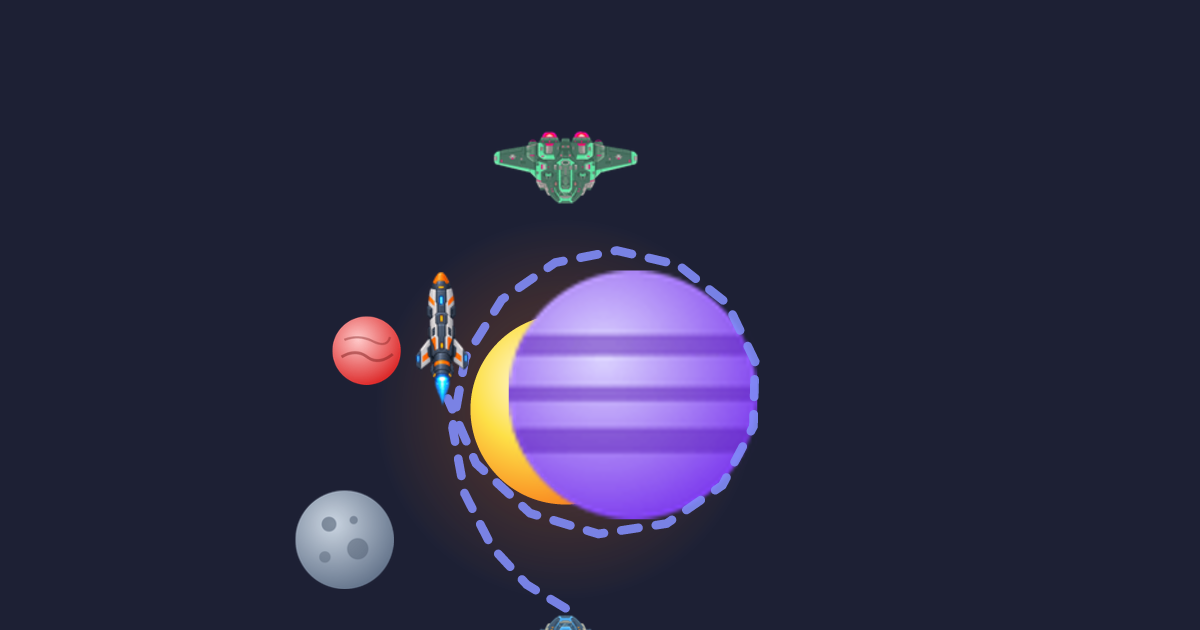
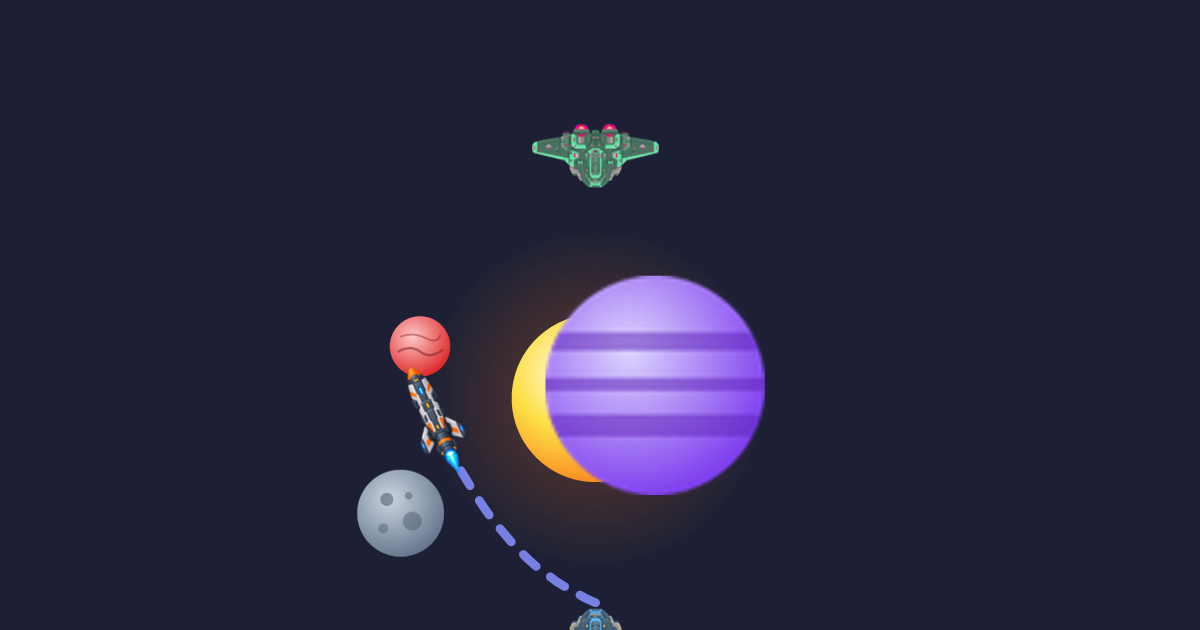
fix: gravity shooter ships sit 20px closer to their edge
Issue #16 had asked for a further 20px of margin past the original
0.08 brief; a later report asked for it back. GRAVITY_SHIP_MARGIN is
the ship's real world position, not a rendering offset layered on top
of it, so moving the one shared constant is what keeps the sprite, the
hitbox, the aim origin, launchPosition and the referee's own fairness
check all agreeing on where the ship actually is — nothing to wire up
separately, and nothing left to drift out of sync with a hitbox that
never moved.

The board is taller now (less margin taken off each end), which raises
both ends of the launch-speed range along with it — game.test.ts's
frame-count and outer-wall checks are updated to the new numbers.

Card art and OG preview regenerated: gravity-shooter's card manifest
hashes shared/protocol.ts whole, so this constant's move invalidated
it mechanically.

Changed region(s): [[0.2467, 0.3921, 0.6475, 1.0], [0.4008, 0.181, 0.555, 0.3317]]

diff --git a/www/src/games/gravity-shooter/game.test.ts b/www/src/games/gravity-shooter/game.test.ts
@@ -13,6 +13,7 @@ import {
   GRAVITY_SHIP_HEIGHT,
   GRAVITY_SHOT_BLINK_MAX_HZ,
   GRAVITY_SHOT_BLINK_START_MS,
+  GRAVITY_SIM_BOUNDS_MAX,
   GRAVITY_STEP_MS,
   GRAVITY_PLAYBACK_RATE,
   GRAVITY_MAX_STEPS,
@@ -267,9 +268,14 @@ function lifetime(): void {
   check('and still ends as a miss', grazing.hit === false);
   check('one offscreen budget after leaving, not a moment more',
     Math.abs(timeOffscreen - GRAVITY_OFFSCREEN_LIFETIME_MS) < GRAVITY_STEP_MS, timeOffscreen);
+  // `timeOffscreen` above already pins the budget as the actual cause; this
+  // only needs to rule out the OTHER possible ending, the outer wall itself
+  // (`GRAVITY_SIM_BOUNDS_MAX`) — which a smaller `GRAVITY_SHIP_MARGIN` brings
+  // this grazing shot noticeably closer to than it used to be, since the
+  // floor speed it launches at rises with the board's own (now taller) height.
   const last = grazing.path.at(-1);
-  check('and well inside the outer wall, so the budget ended it — not the wall',
-    !!last && last.x < 1.5 - 0.05, last);
+  check('and inside the outer wall, so the budget ended it — not the wall',
+    !!last && last.x < GRAVITY_SIM_BOUNDS_MAX, last);
 
   // A shot aimed just past the opponent, missing by more than the hit
   // radius: once it flies beyond that row, "past" always wins over
@@ -294,10 +300,14 @@ function lifetime(): void {
  * the hitbox to the ship's full width shortened both (the missile counts as
  * arrived further out), and launching from the tip rather than the hull's
  * middle (issue #37) took a hull height off the front of every flight — a
- * shorter one since that height was corrected to a world-y distance.
+ * shorter one since that height was corrected to a world-y distance. Bringing
+ * the ships 20px back in from the edge lengthened both again: the board
+ * itself (`GRAVITY_BOARD_HEIGHT`) is now taller, which raises both ends of the
+ * speed range along with it (`GRAVITY_MIN/MAX_LAUNCH_SPEED`), but a taller
+ * board to cross wins out over a faster launch.
  */
-const GRAVITY_FREE_MIN_IMPULSE_FRAMES = 549;
-const GRAVITY_FREE_MAX_IMPULSE_FRAMES = 138;
+const GRAVITY_FREE_MIN_IMPULSE_FRAMES = 570;
+const GRAVITY_FREE_MAX_IMPULSE_FRAMES = 143;
 
 function impulseRange(): void {
   console.log('\nlaunch speed is capped, floored, and shaped by launch intensity (follow-up after #16)');
@@ -321,10 +331,10 @@ function impulseRange(): void {
   const weakest = simulateShot(noPlanets, 0, 0, 0);
   const strongest = simulateShot(noPlanets, 0, 0, 1);
   check('the weakest pull still reaches the opponent', weakest.hit === true);
-  check('taking about 9.2s — the slow end of the display range',
+  check('taking about 9.5s — the slow end of the display range',
     weakest.path.length - 1 === GRAVITY_FREE_MIN_IMPULSE_FRAMES, weakest.path.length - 1);
   check('a full-strength pull also reaches the opponent', strongest.hit === true);
-  check('taking about 2.3s — the fast end of the display range',
+  check('taking about 2.4s — the fast end of the display range',
     strongest.path.length - 1 === GRAVITY_FREE_MAX_IMPULSE_FRAMES, strongest.path.length - 1);
   check('and the weakest is four times the slowest — the impulse range itself',
     Math.abs(GRAVITY_MAX_LAUNCH_SPEED / GRAVITY_MIN_LAUNCH_SPEED - 4) < 1e-9,

diff --git a/shared/protocol.ts b/shared/protocol.ts
@@ -2827,10 +2827,17 @@ export const GRAVITY_PLANET_INFLUENCE_RADIUS_FACTOR = 2;
  * ship, aiming from it, simulating a shot's start/target point) and the
  * referee (issue #16's own map-fairness pre-check, `worker/gravityShooter.ts`)
  * need to agree on, so it lives here rather than with the client-only tuning
- * below. 0.08 was the original brief; issue #16 asked for the ships to sit a
- * further 20px from the edge.
+ * below.
+ *
+ * 0.08 was the original brief; issue #16 asked for a further 20px, and a
+ * later report asked to bring the ships back in by that same 20px — this IS
+ * the ship's real world position, not a cosmetic nudge layered on top of it,
+ * so moving it here is what keeps the sprite, the hitbox, the aim origin and
+ * `launchPosition` (and the referee's own fairness check) all agreeing on
+ * where the ship actually is, rather than a rendering offset drifting away
+ * from a hitbox that never moved.
  */
-export const GRAVITY_SHIP_MARGIN = 0.08 + 20 / GRAVITY_REFERENCE_BOARD_PX;
+export const GRAVITY_SHIP_MARGIN = 0.08;
 
 /**
  * A pull's own strength is normalized 0..1 client-side; the referee clamps

diff --git a/docs/specs/games/gravity-shooter.md b/docs/specs/games/gravity-shooter.md
@@ -30,9 +30,10 @@ viewer, never two different boards.
 
 1. Host starts the round. Three planets are placed once, at random positions
    and sizes, identical on both screens (§2.1) — and never a board without a
-   shot that lands on it. Ships are fixed near their
-   own edge and never move — a 20px further margin than the original brief
-   (issue #16), so neither ship reads as sitting right on the border.
+   shot that lands on it. Ships are fixed near their own edge and never move —
+   at the original brief's own 0.08 margin (`GRAVITY_SHIP_MARGIN`); issue #16
+   had asked for a further 20px, and a later report asked for it back, so the
+   ships now sit that 20px closer to their edge again.
 2. Turns strictly alternate, host first. On your turn, touch above your own
    ship — the finger's own position relative to the ship sets your shot's
    angle and strength; the missile fires toward wherever your finger is,
@@ -601,13 +602,16 @@ readable by a screen reader like any other status bar in this catalogue.
   particular is a real wait if it happens often; worth revisiting after a
   playtest if it reads as dead air rather than a shot still worth watching.
   Worth noting how the speed changes moved these around. A straight,
-  gravity-free crossing now takes about 2.6s at full strength and about 10.2s
-  at the floor, so the 20s ONSCREEN budget still only ever governs a shot
-  gravity has bent into looping or lingering. The 7s OFFSCREEN budget,
-  however, went from unreachable back to load-bearing when the minimum
-  impulse was halved: at the old floor a sideways shot crossed the margin to
-  the outer wall in about 4s and the wall always ended it first, where now it
-  cannot get there inside 7s and the budget does the ending — which is what
+  gravity-free crossing now takes about 2.4s at full strength and about 9.5s
+  at the floor — both a touch longer again since the ships moved 20px back
+  toward their own edge, which raises the board's own height and so both ends
+  of the launch-speed range with it — so the 20s ONSCREEN budget still only
+  ever governs a shot gravity has bent into looping or lingering. The 7s
+  OFFSCREEN budget, however, went from unreachable back to load-bearing when
+  the minimum impulse was halved: at the old floor a sideways shot crossed the
+  margin to the outer wall in about 4s and the wall always ended it first,
+  where now it cannot get there inside 7s and the budget does the ending —
+  which is what
   the budget is for.
 - **The star's own size range (30–60px, §2.1)** is an untested first pick. It
   is deliberately narrower than the planets' 20–100px, because the star is
